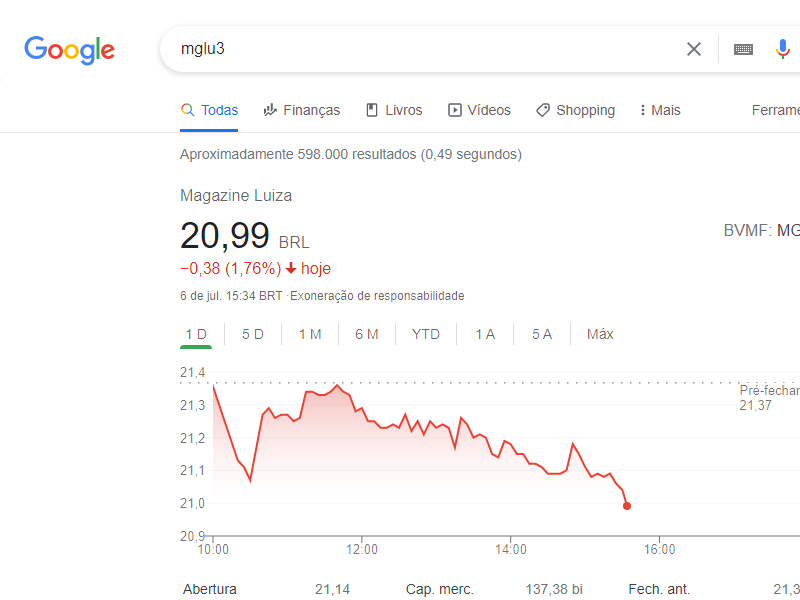
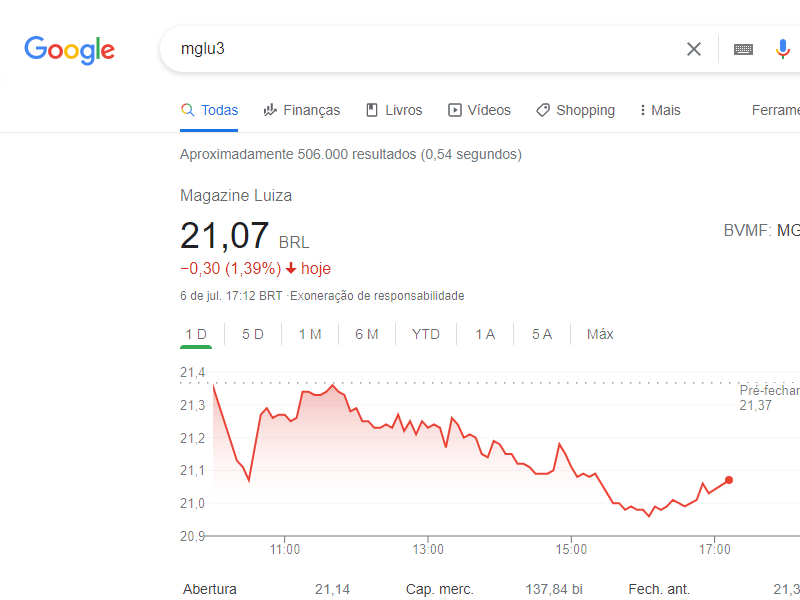
for await sem notificacao

diff --git a/index.js b/index.js
@@ -1,24 +1,52 @@
 const puppeteer = require('puppeteer');
 const notifier = require('node-notifier');
-var readline = require('readline-sync');
+let readline = require('readline-sync');
 
 let acao = readline.question("insira qual ação você quer monitorar: ") || 'mglu3';
 let minimo = readline.question("insira qual o preço minimo para notificação: ") || 21.00;
 let url = `https://www.google.com/search?q=${acao}`;
 
-(async () =>{
+async function pegarPreco(){
     const browser = await puppeteer.launch();
     const page = await browser.newPage();
     await page.goto(url);
     const preco = await page.evaluate(() =>{
         return document.getElementsByClassName("IsqQVc NprOob")[0].innerText;
     });
-    console.log(preco);    
-    notificacao(preco) ? notifier.notify(preco) : null;
+    await page.screenshot({path: 'teste.png'});
     await browser.close();
-})(); 
+    return preco;
+}
+
+
+async function mostrarPreco(){
+    const preco = await pegarPreco();
+    if(notificacao(preco) == true){
+        new Promise(resolve => notifier.notify(preco)); 
+        minimo =  readline.question("insira qual o preço minimo para notificação: ") || 21.00;
+    }
+    console.log(preco);    
+}
 
 function notificacao(preco){
-    n = preco.replace(',', '.')
+    let n = preco.replace(',', '.')
     return n < minimo
+}
+
+async function* asyncGenerator() {
+    var i = 0;
+    while (i < 15) {
+      yield i++;
+    }
+  }
+  
+(async function() {
+  for await (let num of asyncGenerator()) {
+      await mostrarPreco();
+      await sleep(1700)
+  }
+})();
+
+function sleep(ms) {
+  return new Promise(resolve => setTimeout(resolve, ms));
 }
